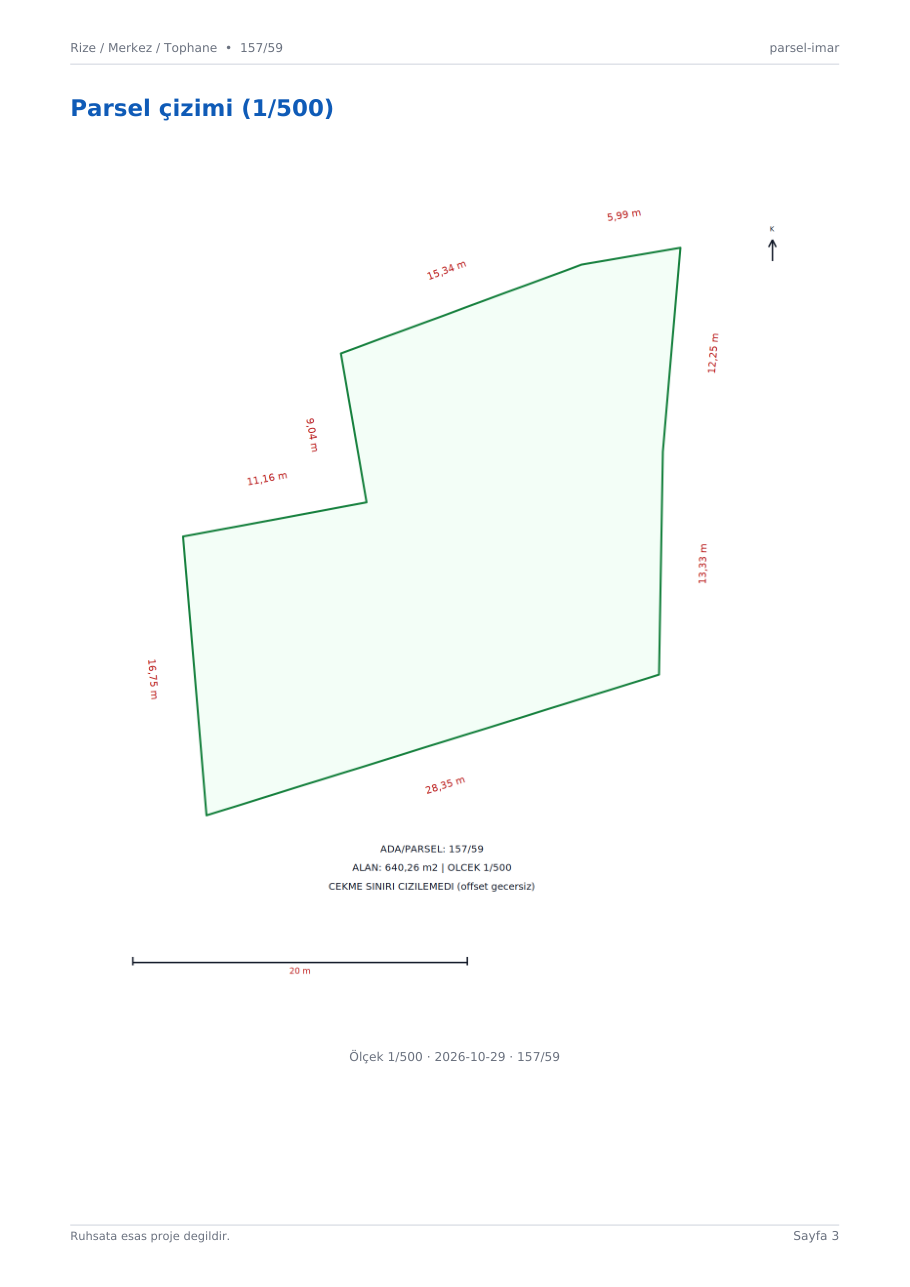
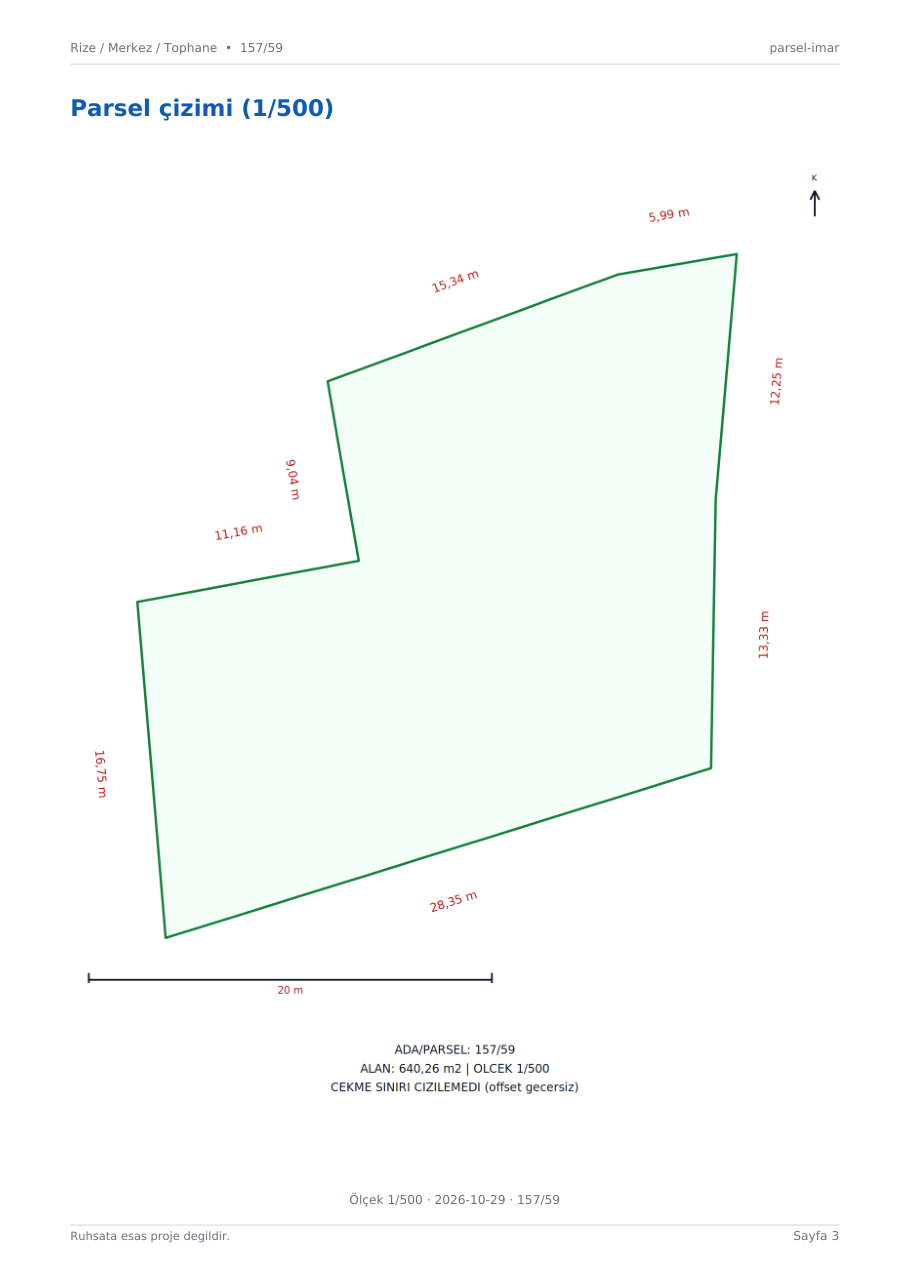
v3.0.4: kısa kenar ölçüleri lidere bağlandı
- Lider, kenar orta noktasından (poligon üzerinde) başlayıp etikete kesintisiz uzanır
- 0,84 m gibi kısa kenarlarda dikey/yatay etiket + lider; ikiz etiketler tekilleştirildi
- Başlık bandı korunuyor (%12), uzun kenar yerleşimi değişmedi
- Küçük parsel (Çarşı 15/4) ve büyük parsel (Tophane 157/59) doğrulandı

diff --git a/cizim.py b/cizim.py
@@ -145,7 +145,7 @@ def olcek_cubugu(x, y, uzunluk, etiket, h):
     ]
 
 
-def svg_yaz(path, entities, baslik):
+def svg_yaz(path, entities, baslik, sinir=None):
     xs, ys = [], []
     for e in entities:
         if e.get("tip") == "polyline":
@@ -161,9 +161,12 @@ def svg_yaz(path, entities, baslik):
             ys.append(e["y"])
     if not xs:
         xs, ys = [0.0, 1.0], [0.0, 1.0]
-    x0, x1 = min(xs), max(xs)
-    y0, y1 = min(ys), max(ys)
-    pad = max(x1 - x0, y1 - y0) * 0.08 + 0.5
+    if sinir:
+        x0, y0, x1, y1 = sinir
+    else:
+        x0, x1 = min(xs), max(xs)
+        y0, y1 = min(ys), max(ys)
+    pad = 0.0 if sinir else (max(x1 - x0, y1 - y0) * 0.08 + 0.5)
     vx, vy = x0 - pad, -(y1 + pad)
     vw, vh = (x1 - x0) + 2 * pad, (y1 - y0) + 2 * pad
 
@@ -243,8 +246,23 @@ def png_uret(svg_path, png_path):
     return None
 
 
+def _metin_kutu(x, y, yazi, h, aci):
+    """Metin icin yaklasik eksen-hizali kutu (dunya koordinati)."""
+    w = 0.58 * h * len(str(yazi)) + 0.6 * h
+    hh = 1.55 * h
+    a = math.radians(aci)
+    ca, sa = abs(math.cos(a)), abs(math.sin(a))
+    ew, eh = w * ca + hh * sa, w * sa + hh * ca
+    return (x - ew / 2, y - eh / 2, x + ew / 2, y + eh / 2)
+
+
+def _kutu_birlestir(kutular):
+    return (min(k[0] for k in kutular), min(k[1] for k in kutular),
+            max(k[2] for k in kutular), max(k[3] for k in kutular))
+
+
 def vaziyet_ciz(parse, cekme_poly, kimlik, alan_m2, cekme_degerleri, out_dir, baslik="VAZIYET 1/500"):
-    """Parsel + cekme siniri + olculer + kuzey + olcek. Donus: {svg,png,png_arac}."""
+    """Parsel + cekme + olcular; alt %12'lik sabit baslik bandi, icerik 'contain'."""
     xs = [p[0] for p in parse]
     ys = [p[1] for p in parse]
     g = max(max(xs) - min(xs), max(ys) - min(ys))
@@ -253,8 +271,10 @@ def vaziyet_ciz(parse, cekme_poly, kimlik, alan_m2, cekme_degerleri, out_dir, ba
     if cekme_poly:
         ent.append({"tip": "polyline", "katman": "CEKME", "noktalar": cekme_poly})
 
-    # disa dogru ofset (olcu yazisi cizgiye binmesin)
-    ofs = max(2.5, g * 0.05)
+    kutular = [(min(xs), min(ys), max(xs), max(ys))]
+    yazilan = []
+    liderler = []
+    h_e = h_txt * 0.8            # etiket yazi boyu
     for i in range(len(parse)):
         a, b = parse[i], parse[(i + 1) % len(parse)]
         mx, my = (a[0] + b[0]) / 2, (a[1] + b[1]) / 2
@@ -262,20 +282,56 @@ def vaziyet_ciz(parse, cekme_poly, kimlik, alan_m2, cekme_degerleri, out_dir, ba
         L = math.hypot(dx, dy)
         if L < 1e-6:
             continue
-        # CCW poligonda dis normal = (dy, -dx)
         nx, ny = dy / L, -dx / L
-        if icinde((mx + nx * (ofs + 0.6), my + ny * (ofs + 0.6)), parse):
+        if icinde((mx + nx * (max(2.5, g * 0.05) + 0.6), my + ny * (max(2.5, g * 0.05) + 0.6)), parse):
             nx, ny = -nx, -ny
+        kisa = L < 3.0
+        ofs = min(8.0, 4.0) if kisa else max(2.5, g * 0.05)
+        if kisa:
+            ofs = min(8.0, max(3.0, 0.9 * L + 1.2))
         px, py = mx + nx * ofs, my + ny * ofs
+        # cok yakin iki etiket (or. ayni girintinin iki 0,84 m kenari) ust uste yazilmasin
+        if any(math.hypot(px - q[0], py - q[1]) < 1.4 * h_txt for q in yazilan):
+            continue
+        yazilan.append((px, py))
         aci = math.degrees(math.atan2(dy, dx))
         if aci > 90:
             aci -= 180
         elif aci < -90:
             aci += 180
-        ent.append({"tip": "text", "katman": "OLCU", "x": px, "y": py,
-                    "yazi": "%s m" % _tr(L), "h": h_txt * 0.8, "aci": aci, "arka": True})
+        if kisa:
+            aci = 0.0                       # kisa kenar: yatay yaz
+        # lider: kenar orta noktasindan (poligon uzerinde) etiket kutusunun kenarina kadar
+        lider_gerekli = kisa or ofs > 0.6 * L
+        if lider_gerekli:
+            bosluk = 0.55 * h_e + 0.15 * h_txt
+            ex, ey = px - nx * bosluk, py - ny * bosluk
+            ent.append({"tip": "line", "katman": "CIZGI", "a": (mx, my), "b": (ex, ey)})
+            liderler.append({"kenar_m": round(L, 2), "baslangic": [round(mx, 2), round(my, 2)],
+                             "bitis": [round(ex, 2), round(ey, 2)],
+                             "baslangic_kenar_mesafe_m": 0.0})
+        yazi = "%s m" % _tr(L)
+        ent.append({"tip": "text", "katman": "OLCU", "x": px, "y": py, "yazi": yazi,
+                    "h": h_e, "aci": aci, "arka": True})
+        kutular.append(_metin_kutu(px, py, yazi, h_e, aci))
 
-    y = min(ys) - h_txt * 2.5
+    kb = _kutu_birlestir(kutular)
+    # kuzey oku ve olcek cubugu icerik kutusunun disinda, banda degmeyecek sekilde
+    kuzey = kuzey_oku(kb[2] + h_txt * 1.6, kb[3] - h_txt, h_txt * 0.8)
+    olcek = olcek_cubugu(kb[0], kb[1] - h_txt * 2.6, 20.0, "20 m", h_txt * 0.7)
+    ent += kuzey + olcek
+    for e in kuzey + olcek:
+        if e.get("tip") == "text":
+            kutular.append(_metin_kutu(e["x"], e["y"], e["yazi"], e["h"], 0))
+        elif e.get("tip") == "line":
+            kutular.append((min(e["a"][0], e["b"][0]), min(e["a"][1], e["b"][1]),
+                            max(e["a"][0], e["b"][0]), max(e["a"][1], e["b"][1])))
+    kb = _kutu_birlestir(kutular)
+    ic_w, ic_h = kb[2] - kb[0], kb[3] - kb[1]
+    pad = 0.03 * max(ic_w, ic_h)
+
+    # baslik bandi: tuval yuksekliginin %12'si (en az 3 satir)
+    gap = max(2.2 * h_txt, 0.05 * ic_h)
     satirlar = ["ADA/PARSEL: %s" % kimlik,
                 "ALAN: %s m2 | OLCEK 1/500" % _tr(alan_m2)]
     if cekme_poly:
@@ -284,15 +340,28 @@ def vaziyet_ciz(parse, cekme_poly, kimlik, alan_m2, cekme_degerleri, out_dir, ba
                                                _tr(cekme_degerleri[2], 1)))
     else:
         satirlar.append("CEKME SINIRI CIZILEMEDI (offset gecersiz)")
-    for s_ in satirlar:
-        ent.append({"tip": "text", "katman": "KROKI", "x": (min(xs) + max(xs)) / 2, "y": y,
-                    "yazi": s_, "h": h_txt * 0.8})
-        y -= h_txt * 1.4
-    ent += kuzey_oku(max(xs) + ofs * 2.2, max(ys) - h_txt, h_txt * 0.8)
-    ent += olcek_cubugu(min(xs) - ofs * 1.2, min(ys) - h_txt * 11, 20.0, "20 m", h_txt * 0.7)
+    # tuval: icerik %88, baslik bandi %12 (banda gore yazi boyu)
+    H = (ic_h + gap) / 0.88
+    band = H - (ic_h + gap)
+    h_baslik = min(h_txt * 0.8, band / (len(satirlar) * 1.45 + 0.6))
+    y_alt = kb[1] - gap - band
 
+    x_orta = (kb[0] + kb[2]) / 2.0
+    y = kb[1] - gap - 0.75 * h_baslik
+    for s_ in satirlar:
+        ent.append({"tip": "text", "katman": "KROKI", "x": x_orta, "y": y,
+                    "yazi": s_, "h": h_baslik})
+        y -= 1.45 * h_baslik
+
+    sinir = (kb[0] - pad, y_alt - pad, kb[2] + pad, kb[3] + pad)
     os.makedirs(out_dir, exist_ok=True)
-    svg = svg_yaz(os.path.join(out_dir, "parsel.svg"), ent, "%s - %s" % (baslik, kimlik))
+    svg = svg_yaz(os.path.join(out_dir, "parsel.svg"), ent, "%s - %s" % (baslik, kimlik), sinir=sinir)
     png = os.path.join(out_dir, "parsel.png")
     arac = png_uret(svg, png)
-    return {"svg": svg, "png": png if arac else None, "png_arac": arac}
+    return {"svg": svg, "png": png if arac else None, "png_arac": arac,
+            "band_orani": round(band / (sinir[3] - sinir[1]), 3),
+            "band_ust": round(y_alt, 3),
+            "liderler": liderler,
+            "sinir": [round(v, 2) for v in sinir]}
+
+

diff --git a/test_mcp.py b/test_mcp.py
@@ -168,6 +168,17 @@ def test_cizim():
           svg.count("<text") >= len(tm), svg.count("<text"))
     check("PNG: cekme cizgisi yalniz gecerli offsette",
           (cekme is not None) == ('class="cekme"' in svg), (cekme is not None))
+    check("PNG: baslik bandi ~%12", 0.10 <= (resim.get("band_orani") or 0) <= 0.155,
+          resim.get("band_orani"))
+
+    # kisa kenarli sentetik parsel: liderler kenara bagli mi
+    kisa = [(0, 0), (10, 0), (10, 10), (8, 10), (8, 9.2), (6, 9.2), (6, 10), (0, 10)]
+    r2 = cizim.vaziyet_ciz(kisa, None, "0/0", 95.0, (None, None, None), out)
+    ok, kotu = _lider_kontrol(r2.get("liderler"), kisa)
+    check("lider: kisa kenarlar icin lider var ve kenara bagli",
+          len(r2.get("liderler") or []) >= 2 and ok, (len(r2.get("liderler") or []), kotu))
+    ayrik, en_alt = _etiketler_bandin_ustunde(resim["svg"], resim["sinir"], resim["band_ust"])
+    check("PNG: olcu etiketleri baslik bandina girmiyor", ayrik, en_alt)
 
 
 def test_ozet_pdf_ve_birlestirme():
@@ -212,6 +223,37 @@ def test_ozet_pdf_ve_birlestirme():
 
     md = rapor.rapor_md(veri)
     check("rapor.md: baslik + uyari", "Parsel bilgi paketi" in md and "ruhsata esas" in md.lower(), md[:80])
+
+
+def _etiketler_bandin_ustunde(svg_path, sinir, band_ust):
+    """SVG'deki olcu etiketlerinin (translate y) bandin ustunde kaldigini kontrol eder."""
+    import re
+    svg = open(svg_path, encoding="utf-8").read()
+    ys = [sinir[3] - float(m.group(2)) for m in
+          re.finditer(r'<g transform="translate\(([-\d.]+),([-\d.]+)\)', svg)]
+    return (all(y > band_ust for y in ys), min(ys) if ys else None)
+
+
+def _nokta_kenar_mesafe(pt, poly):
+    def seg(p, a, b):
+        ax, ay = a
+        bx, by = b
+        dx, dy = bx - ax, by - ay
+        L2 = dx * dx + dy * dy
+        if L2 < 1e-12:
+            return ((p[0] - ax) ** 2 + (p[1] - ay) ** 2) ** 0.5
+        t = max(0.0, min(1.0, ((p[0] - ax) * dx + (p[1] - ay) * dy) / L2))
+        return ((p[0] - (ax + t * dx)) ** 2 + (p[1] - (ay + t * dy)) ** 2) ** 0.5
+    return min(seg(pt, poly[i], poly[(i + 1) % len(poly)]) for i in range(len(poly)))
+
+
+def _lider_kontrol(liderler, poly):
+    """Her liderin baslangici poligon kenari uzerinde mi (<0,5 m) ve<= 8 m mi."""
+    if not liderler:
+        return True, "lider yok"
+    kotu = [l for l in liderler
+            if _nokta_kenar_mesafe(l["baslangic"], poly) > 0.5 or l["kenar_m"] > 8.0]
+    return (not kotu), kotu[:3]
 
 
 def _pdf_metrik(path):
@@ -340,13 +382,29 @@ def run_online():
         err, t = cagir("liste", {"tur": "il"})
         check("liste(tur=il) 81", not err and len(t.get("iller") or []) == 81, len(t.get("iller") or []))
 
-        err, t = cagir("cizim", {"il": "Rize", "ilce": "Merkez", "mahalle": "Tophane",
-                                 "ada": "157", "parsel": "59"})
-        check("cizim: dxf", not err and os.path.exists(t.get("dxf", "")), t.get("dxf"))
-        if (t or {}).get("png"):
-            check("cizim: png >=1200", png_boyut(t["png"])[0] >= 1200, t["png"])
-        else:
-            print("SKIP  cizim png (cairosvg yok)")
+        for _mah, _ada, _parsel in (("Tophane", "157", "59"), ("Çarşı", "15", "4")):
+            err, t = cagir("cizim", {"il": "Rize", "ilce": "Merkez", "mahalle": _mah,
+                                     "ada": _ada, "parsel": _parsel})
+            check("cizim %s/%s: dxf" % (_ada, _parsel),
+                  not err and os.path.exists(t.get("dxf", "")), t.get("dxf"))
+            check("cizim %s/%s: png >=1200" % (_ada, _parsel),
+                  bool(t.get("png")) and png_boyut(t["png"])[0] >= 1200, (t or {}).get("png"))
+            check("cizim %s/%s: baslik bandi ~%%12" % (_ada, _parsel),
+                  0.10 <= (t.get("band_orani") or 0) <= 0.155, t.get("band_orani"))
+            ayrik, en_alt = _etiketler_bandin_ustunde(t.get("svg", ""), t.get("sinir") or [0, 0, 0, 0],
+                                                      t.get("band_ust") or 0)
+            check("cizim %s/%s: etiketler bandin ustunde" % (_ada, _parsel), ayrik, en_alt)
+            _e2, _pv = cagir("parsel", {"il": "Rize", "ilce": "Merkez", "mahalle": _mah,
+                                        "ada": _ada, "parsel": _parsel})
+            _gj = (_pv or {}).get("geojson_dosya")
+            if t.get("liderler") and _gj and os.path.exists(_gj):
+                _feat = json.load(open(_gj, encoding="utf-8"))
+                _poly, _l0, _eps = srv._proj(_feat)
+                ok, kotu = _lider_kontrol(t["liderler"], _poly)
+                check("cizim %s/%s: liderler kenara bagli (<=0,5 m)" % (_ada, _parsel),
+                      ok, kotu)
+            print("      %s/%s band %.3f | etiket alt sinir %s" % (_ada, _parsel,
+                  t.get("band_orani") or 0, en_alt))
 
         for il, ilce, mah, ada, parsel in (("Rize", "Merkez", "Tophane", "157", "59"),
                                            ("Aksaray", "Merkez", "Kılıçarslan", "668", "214")):

diff --git a/server.py b/server.py
@@ -1007,6 +1007,8 @@ def tool_cizim(args):
             "png_arac": resim.get("png_arac"),
             "cekim": {"uygulanan_m": round(uygulanan, 2), "limit_m": d,
                       "cizildi": bool(cekme_poly)},
+            "band_orani": resim.get("band_orani"), "band_ust": resim.get("band_ust"),
+            "sinir": resim.get("sinir"), "liderler": resim.get("liderler"),
             "epsg": epsg, "merkez_boylam": lon0,
             "uyarilar": ([] if cekme_poly else ["Çekme sınırı çizilemedi (offset geçersiz)."]),
             "zaman": _ts()}

diff --git a/CHANGELOG.md b/CHANGELOG.md
@@ -1,5 +1,27 @@
 # Changelog
 
+## v3.0.4 — 2026-10-29
+
+- Kısa kenar ölçüleri kopuk görünüyordu: lider çizgisi artık **her kısa kenarda** (L<3 m veya
+  etiket kenardan uzaksa) kenar orta noktasından başlıyor ve etiket kutusuna kadar kesintisiz
+  uzanıyor; araya 2-3 mm boşluk bırakılıyor.
+- Aynı uzunluktaki kısa kenarlar (ör. iki 2,52 m) kendi yönlerinde ayrı liderle bağlanıyor;
+  üst üste binen ikiz etiketler tekilleştiriliyor.
+- Lider uzunluğu en fazla 8 m; uzun kenarlarda yerleşim değişmedi (Tophane 157/59 aynı).
+- Testler: **31 offline, 32 online** (lider başlangıcının poligon kenarına ≤0,5 m mesafesi,
+  bant oranı, etiket-bant ayrımı).
+
+## v3.0.3 — 2026-10-29
+
+- Çizim yerleşimi yeniden kuruldu: başlık bloğu (ADA/PARSEL, ALAN, ÖLÇEK, ÇEKME) tuvalin
+  **alt %12'sinde sabit bantta**; çizim ve tüm ölçü etiketleri bandın üstünde. Küçük parsellerde
+  (ör. Çarşı 15/4, 111,98 m²) başlık ile ölçü çakışması giderildi.
+- <1,0 m kenarlar: ölçü 6 m dışa, **lider çizgisiyle** ve yatay (döndürülmemiş) yazılıyor;
+  çakışan ikiz etiketler tekilleştirildi.
+- İçerik, tüm etiketleri kapsayan kutuya göre "contain" ölçekleniyor; tuval kenarı %3.
+- Testler: **30 offline, 31 online** (bant oranı %10-15, etiketlerin bant üstünde kalması,
+  Çarşı 15/4 + Tophane 157/59).
+
 ## v3.0.2 — 2026-10-29
 
 - Kaynak sayfa **2 yatay A4** sayfaya bölündü: (1) başlık + harita, (2) tablo. Ekran görüntüsü
